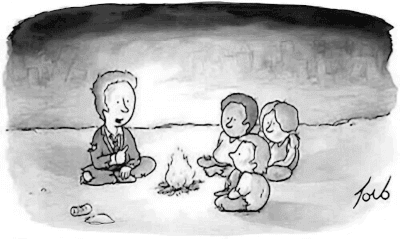
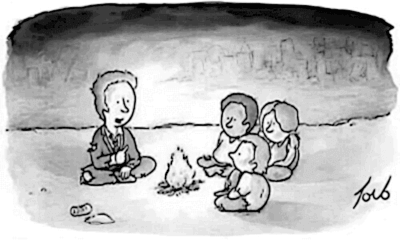
html/CSS: improving & differentiate transitions cols/gray->bw/wb

diff --git a/html/299-such-a-man-of-common-sense.html b/html/299-such-a-man-of-common-sense.html
@@ -15,11 +15,11 @@
     <body>
 <p/>
 <div class='topbar translate='no'>&nbsp;<b id='menu' onClick='nextStylesheet()'>&#9783;&thinsp;&Ropf;</b> &nbsp;&mdash;&nbsp; published:&nbsp; <b class='topbar'>2025-01-09<sup class='date-type topbar' id='datenote'>&nbsp;(&hairsp;<a href='#date-legenda' class='date-type topbar'>&hairsp;1&hairsp;</a>&hairsp;)&nbsp;</sup></b>  &nbsp;&mdash;&nbsp; revision: <b class='topbar
-'>13</b class='
+'>15</b class='
 '> &nbsp;&mdash;&nbsp; translate:&nbsp; <a class='topbar' href='https://robang74-github-io.translate.goog/roberto-a-foglietta/html/299-such-a-man-of-common-sense?_x_tr_sl=en&_x_tr_tl=it&_x_tr_hl=it-IT&_x_tr_pto=wapp' target='_blank' rel='noopener noreferrer'>IT</a> &nbsp;<b>&middot;</b>&nbsp; <a class='topbar' href='https://robang74-github-io.translate.goog/roberto-a-foglietta/html/299-such-a-man-of-common-sense?_x_tr_sl=en&_x_tr_tl=de&_x_tr_hl=de-DE&_x_tr_pto=wapp' target='_blank' rel='noopener noreferrer'>DE</a> &nbsp;<b>&middot;</b>&nbsp; <a class='topbar' href='https://robang74-github-io.translate.goog/roberto-a-foglietta/html/299-such-a-man-of-common-sense?_x_tr_sl=en&_x_tr_tl=fr&_x_tr_hl=fr-FR&_x_tr_pto=wapp' target='_blank' rel='noopener noreferrer'>FR</a> &nbsp;<b>&middot;</b>&nbsp; <a class='topbar' href='https://robang74-github-io.translate.goog/roberto-a-foglietta/html/299-such-a-man-of-common-sense?_x_tr_sl=en&_x_tr_tl=es&_x_tr_hl=es-ES&_x_tr_pto=wapp' target='_blank' rel='noopener noreferrer'>ES</a> &nbsp;&mdash;&nbsp; goto:&nbsp; <a class='topbar' href='../index.html#index'>.&#x27F0;.</a> &nbsp;<b>&middot;</b>&nbsp; <a class='topbar' href='../../chatbots-for-fun/index.html'target=_blank>C4F</a> &nbsp;<b>&middot;</b>&nbsp; <a class='topbar' href='../../chatgpt-answered-prompts/index.html'target=_blank>Q&A</a>&nbsp;</div>
 <div id="firstdiv">
 <p/>
-<div align="center"><img class="awsketch" src="../img/299-such-a-man-of-common-sense-img-001.jpg"><br/></div>
+<div align="center"><img class="bwsketch inksave" src="../img/299-such-a-man-of-common-sense-img-001.jpg"><br/></div>
 <p/>
 <H2 id="such-a-man-of-common-sense">Such a man of Common Sense!</H2>
 <p/>
@@ -213,7 +213,7 @@ In such a case, it is useful to remember that raising payroll makes people happy
 <p/>
 <div align="center" class="framebox">
 <p/>
-<center class='tabcenter'><table id='table-001'><tr><th><img class="wbsketch" src="../img/299-such-a-man-of-common-sense-img-003.png"></th><th><img class="bwsketch" src="../img/299-such-a-man-of-common-sense-img-002.png"></th></tr>
+<center class='tabcenter'><table id='table-001'><tr><th><img class="inksave" src="../img/299-such-a-man-of-common-sense-img-003.png"></th><th><img class="bwsketch" src="../img/299-such-a-man-of-common-sense-img-002.png"></th></tr>
 <tr class='trline'><td></td><td></td></tr>
 <tr><td class='td1stcol'><sub>Numbers matter, mediocres voted mediocres in power.</sub></td><td><sub>For a beautiful minute, we made our investors happy.</sub></td></tr>
 </table>

diff --git a/html/298-dietro-a-quel-nome-c-e-un-mondo.html b/html/298-dietro-a-quel-nome-c-e-un-mondo.html
@@ -15,11 +15,11 @@
     <body>
 <p/>
 <div class='topbar translate='no'>&nbsp;<b id='menu' onClick='nextStylesheet()'>&#9783;&thinsp;&Ropf;</b> &nbsp;&mdash;&nbsp; published:&nbsp; <b class='topbar'>2025-01-07<sup class='date-type topbar' id='datenote'>&nbsp;(&hairsp;<a href='#date-legenda' class='date-type topbar'>&hairsp;1&hairsp;</a>&hairsp;)&nbsp;</sup></b>  &nbsp;&mdash;&nbsp; revision: <b class='topbar
-'>2</b class='
+'>4</b class='
 '> &nbsp;&mdash;&nbsp; translate:&nbsp; <a class='topbar' href='https://robang74-github-io.translate.goog/roberto-a-foglietta/html/298-dietro-a-quel-nome-c-e-un-mondo?_x_tr_sl=it&_x_tr_tl=en&_x_tr_hl=en-EN&_x_tr_pto=wapp' target='_blank' rel='noopener noreferrer'>EN</a> &nbsp;<b>&middot;</b>&nbsp; <a class='topbar' href='https://robang74-github-io.translate.goog/roberto-a-foglietta/html/298-dietro-a-quel-nome-c-e-un-mondo?_x_tr_sl=it&_x_tr_tl=de&_x_tr_hl=de-DE&_x_tr_pto=wapp' target='_blank' rel='noopener noreferrer'>DE</a> &nbsp;<b>&middot;</b>&nbsp; <a class='topbar' href='https://robang74-github-io.translate.goog/roberto-a-foglietta/html/298-dietro-a-quel-nome-c-e-un-mondo?_x_tr_sl=it&_x_tr_tl=fr&_x_tr_hl=fr-FR&_x_tr_pto=wapp' target='_blank' rel='noopener noreferrer'>FR</a> &nbsp;<b>&middot;</b>&nbsp; <a class='topbar' href='https://robang74-github-io.translate.goog/roberto-a-foglietta/html/298-dietro-a-quel-nome-c-e-un-mondo?_x_tr_sl=it&_x_tr_tl=es&_x_tr_hl=es-ES&_x_tr_pto=wapp' target='_blank' rel='noopener noreferrer'>ES</a> &nbsp;&mdash;&nbsp; goto:&nbsp; <a class='topbar' href='../index.html#index'>.&#x27F0;.</a> &nbsp;<b>&middot;</b>&nbsp; <a class='topbar' href='../../chatbots-for-fun/index.html'target=_blank>C4F</a> &nbsp;<b>&middot;</b>&nbsp; <a class='topbar' href='../../chatgpt-answered-prompts/index.html'target=_blank>Q&A</a>&nbsp;</div>
 <div id="firstdiv">
 <p/>
-<div align="center"><img class="bwsketch" src="../img/298-dietro-a-quel-nome-c-e-un-mondo-img-001.jpg"><br/></div>
+<div align="center"><img class="awsketch inksave" src="../img/298-dietro-a-quel-nome-c-e-un-mondo-img-001.jpg"><br/></div>
 <p/>
 Questo documento è ancora una bozza in fase di lavorazione, 1st draft as published on Facebook, WIP
 <p/>

diff --git a/index.html b/index.html
@@ -15,11 +15,11 @@
     <body>
 <p/>
 <div class='topbar translate='no'>&nbsp;<b id='menu' onClick='nextStylesheet()'>&#9783;&thinsp;&Ropf;</b> &nbsp;&mdash;&nbsp; published:&nbsp; <b class='topbar'>2024-12-14<sup class='date-type topbar' id='datenote'>&nbsp;(&hairsp;<a href='#date-legenda' class='date-type topbar'>&hairsp;2&hairsp;</a>&hairsp;)&nbsp;</sup></b>  &nbsp;&mdash;&nbsp; revision: <b class='topbar
-'>62</b class='
+'>63</b class='
 '> &nbsp;&mdash;&nbsp; translate:&nbsp; <a class='topbar' href='https://robang74-github-io.translate.goog/roberto-a-foglietta/index.html?_x_tr_sl=auto&_x_tr_tl=de&_x_tr_hl=de-DE&_x_tr_pto=wapp' target='_blank' rel='noopener noreferrer'>DE</a> &nbsp;<b>&middot;</b>&nbsp; <a class='topbar' href='https://robang74-github-io.translate.goog/roberto-a-foglietta/index.html?_x_tr_sl=auto&_x_tr_tl=fr&_x_tr_hl=fr-FR&_x_tr_pto=wapp' target='_blank' rel='noopener noreferrer'>FR</a> &nbsp;<b>&middot;</b>&nbsp; <a class='topbar' href='https://robang74-github-io.translate.goog/roberto-a-foglietta/index.html?_x_tr_sl=auto&_x_tr_tl=es&_x_tr_hl=es-ES&_x_tr_pto=wapp' target='_blank' rel='noopener noreferrer'>ES</a> &nbsp;&mdash;&nbsp; goto:&nbsp; <a class='topbar' href='index.html#index'>&#x21b4;&hairsp;&#8505;&thinsp;&equiv;</a> &nbsp;<b>&middot;</b>&nbsp; <a class='topbar' href='../chatbots-for-fun/index.html'target=_blank>C4F</a> &nbsp;<b>&middot;</b>&nbsp; <a class='topbar' href='../chatgpt-answered-prompts/index.html'target=_blank>Q&A</a>&nbsp;</div>
 <div id="firstdiv">
 <p/>
-<div align="center"><img class="wbsketch" src="img/warp-speed-jump.png"><br/></div>
+<div align="center"><img class="wbsketch" src="img/warp-speed-jump.png" width="800"><br/></div>
 <p/>
 <H1 id="roberto-a-foglietta">Roberto A. Foglietta</H1>
 <p/>

diff --git a/html/pdfgray.css b/html/pdfgray.css
@@ -9,13 +9,17 @@
  *
  ******************************************************************************/
 
-img.paleinv { filter: invert(100%) grayscale(100%) contrast(2); }
+img.paleinv { filter: invert(100%) grayscale(100%) contrast(1.25) brightness(0.99); }
 
-img.wbsketch { filter: invert(100%) grayscale(100%) contrast(8); }
+img.wbsketch.inksave, img.awsketch.inksave, img.inksave {
+    filter: grayscale(100%) brightness(1.5);
+}
 
-img.awsketch, img.bwsketch { filter: grayscale(100%) contrast(8); }
+img.wbsketch { filter: invert(100%) grayscale(100%) contrast(1.5) brightness(1.05); }
 
-img { filter: grayscale(100%) contrast(1.25) brightness(1.25); }
+img.bwsketch, img.awsketch { filter: grayscale(100%) contrast(1.5) brightness(1.05); }
+
+img { filter: grayscale(100%) contrast(1.25) brightness(0.99); }
 
 
 body { color: #202020; background-color: white; }

diff --git a/html/pureblk.css b/html/pureblk.css
@@ -11,11 +11,17 @@
 
 img.darkinv { filter: invert(100%) grayscale(100%) contrast(2); }
 
+img.wbsketch.inksave, img.awsketch.inksave, img.inksave {
+    filter: grayscale(100%) brightness(0.90) contrast(4);
+}
+
+img.bwsketch.inksave {
+    filter: grayscale(100%) brightness(1.25) contrast(4) invert(100%);
+}
+
 img.bwsketch { filter: invert(100%) grayscale(100%) contrast(8); }
 
-img.wbsketch { filter: grayscale(100%) contrast(8); }
-
-img.awsketch { filter: grayscale(100%) contrast(8); }
+img.wbsketch, img.awsketch { filter: grayscale(100%) contrast(8); }
 
 img { filter: grayscale(100%) contrast(2); }
 

diff --git a/html/bwprint.css b/html/bwprint.css
@@ -11,11 +11,13 @@
 
 img.paleinv { filter: invert(100%) grayscale(100%) contrast(2); }
 
+img.bwsketch.inksave, img.awsketch.inksave, img.inksave {
+    filter: grayscale(100%) brightness(1.25) contrast(4);
+}
+
 img.wbsketch { filter: invert(100%) grayscale(100%) contrast(8); }
 
-img.bwsketch { filter: grayscale(100%) contrast(8); }
-
-img.awsketch { filter: grayscale(100%) contrast(8); }
+img.bwsketch, img.awsketch { filter: grayscale(100%) contrast(8); }
 
 img { filter: grayscale(100%) contrast(2); }
 

diff --git a/299-such-a-man-of-common-sense.md b/299-such-a-man-of-common-sense.md
@@ -1,6 +1,6 @@
 <div id="firstdiv" created="2025-01-09:EN" style="max-width: 800px; margin: auto; white-space: pre-wrap; text-align: justify;">
 
-<div align="center"><img class="awsketch" src="img/299-such-a-man-of-common-sense-img-001.jpg"><br/></div>
+<div align="center"><img class="bwsketch inksave" src="img/299-such-a-man-of-common-sense-img-001.jpg"><br/></div>
 
 ## Such a man of Common Sense!
 
@@ -194,7 +194,7 @@ In such a case, it is useful to remember that raising payroll makes people happy
 
 <div align="center" class="framebox">
 
-|<img class="wbsketch" src="img/299-such-a-man-of-common-sense-img-003.png">|<img class="bwsketch" src="img/299-such-a-man-of-common-sense-img-002.png">|
+|<img class="inksave" src="img/299-such-a-man-of-common-sense-img-003.png">|<img class="bwsketch" src="img/299-such-a-man-of-common-sense-img-002.png">|
 |---|---|
 |<sub>Numbers matter, mediocres voted mediocres in power.</sub>|<sub>For a beautiful minute, we made our investors happy.</sub>|
 

diff --git a/298-dietro-a-quel-nome-c-e-un-mondo.md b/298-dietro-a-quel-nome-c-e-un-mondo.md
@@ -1,6 +1,6 @@
 <div id="firstdiv" created="2025-01-07:IT" style="max-width: 800px; margin: auto; white-space: pre-wrap; text-align: justify;">
 
-<div align="center"><img class="bwsketch" src="img/298-dietro-a-quel-nome-c-e-un-mondo-img-001.jpg"><br/></div>
+<div align="center"><img class="awsketch inksave" src="img/298-dietro-a-quel-nome-c-e-un-mondo-img-001.jpg"><br/></div>
 
 Questo documento è ancora una bozza in fase di lavorazione, 1st draft as published on Facebook, WIP
 

diff --git a/README.md b/README.md
@@ -1,6 +1,6 @@
 <div id="firstdiv" created=":-2" style="max-width: 800px; margin: auto; white-space: pre-wrap; text-align: justify;">
 
-<div align="center"><img class="wbsketch" src="img/warp-speed-jump.png"><br/></div>
+<div align="center"><img class="wbsketch" src="img/warp-speed-jump.png" width="800"><br/></div>
 
 # Roberto A. Foglietta
 
